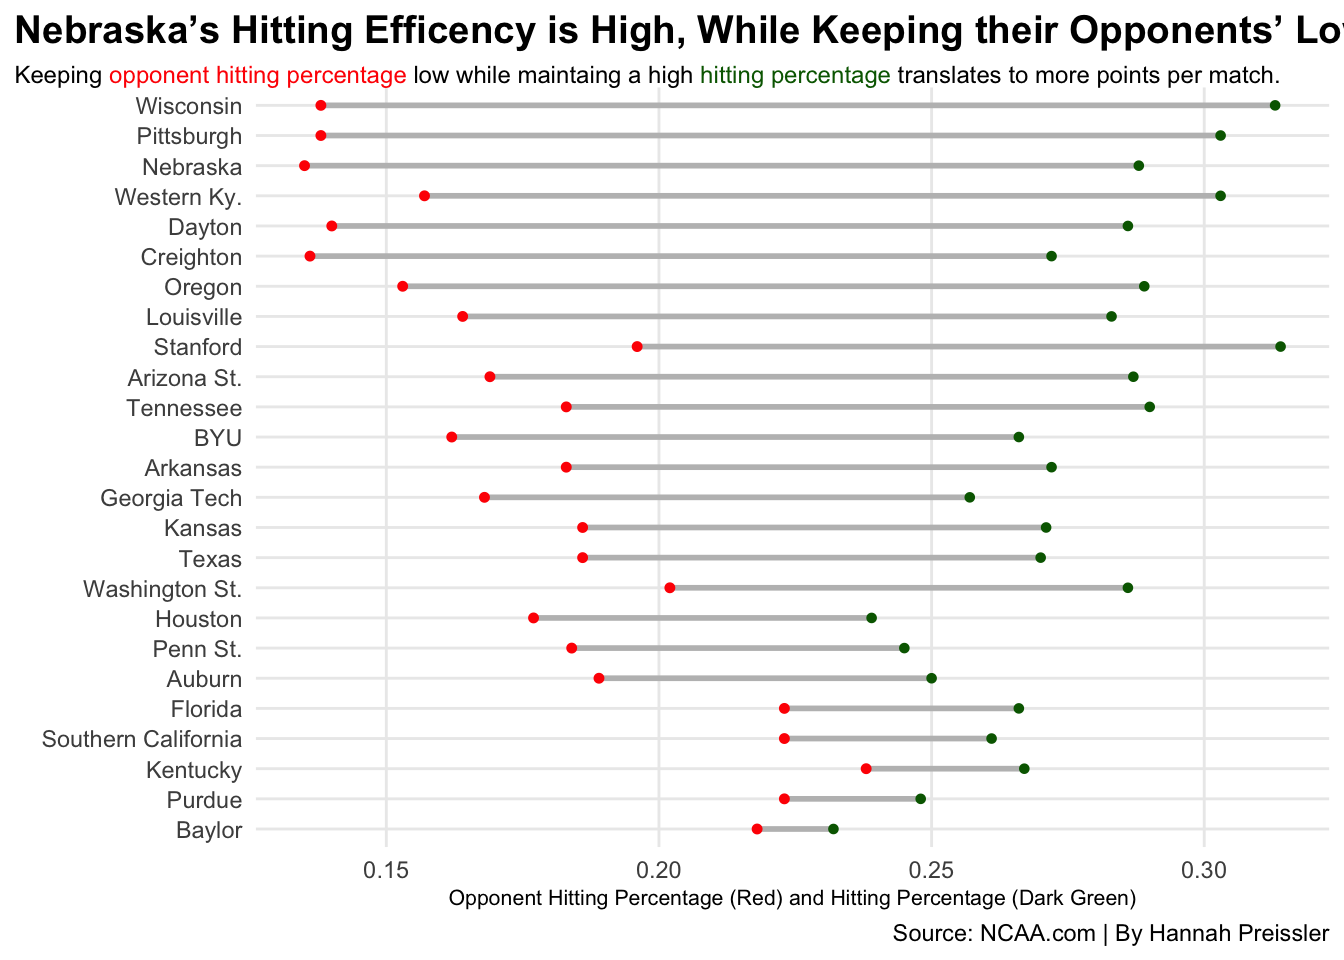
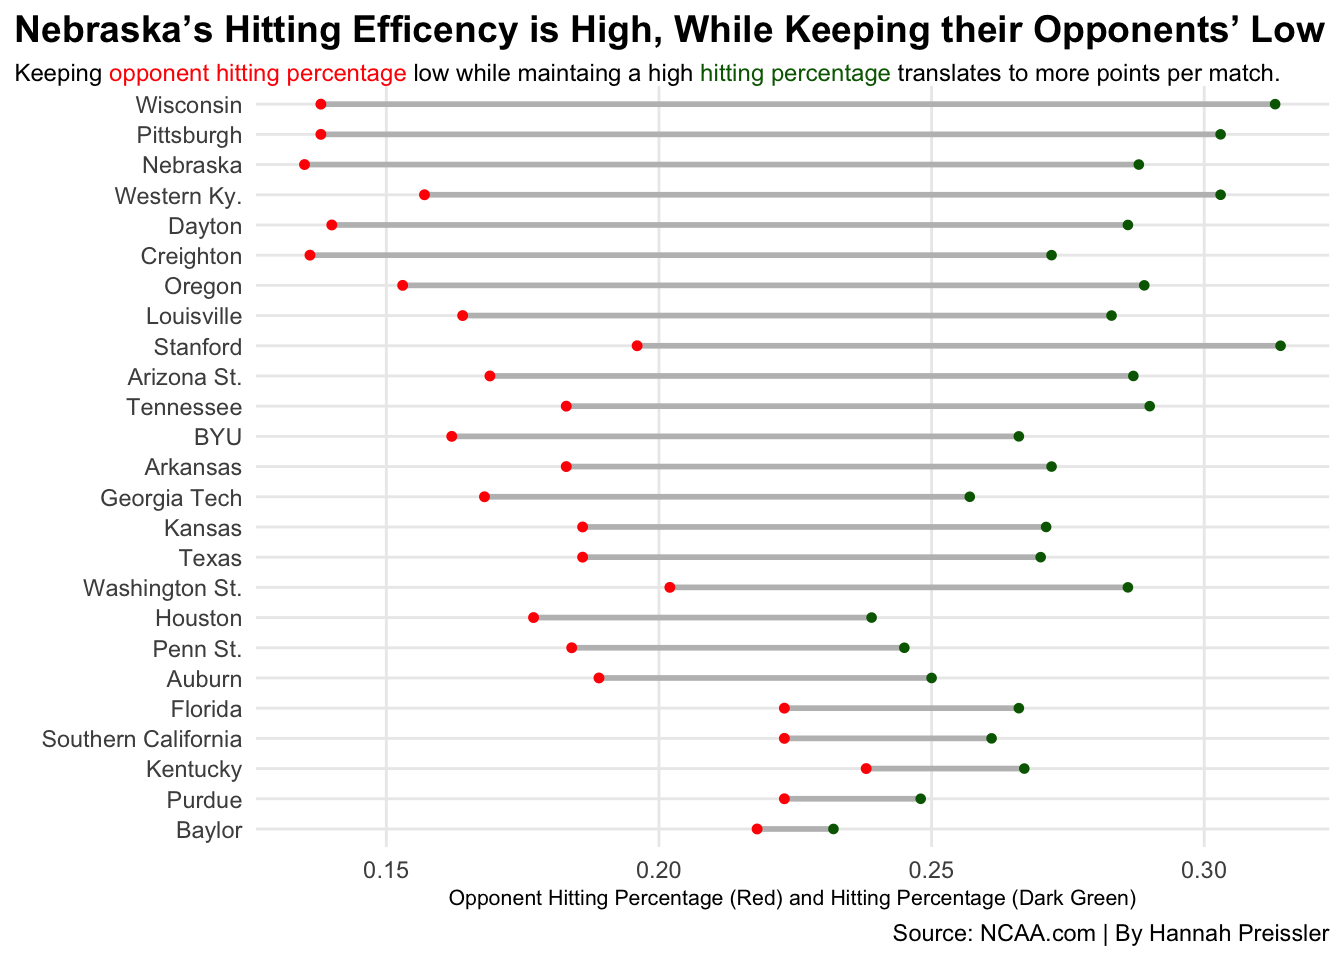
Updated project 1

diff --git a/posts/is-nebraska-volleyballs-success-attributed-to-offense-or-defense/index.html b/posts/is-nebraska-volleyballs-success-attributed-to-offense-or-defense/index.html
@@ -9,7 +9,7 @@
 <meta name="author" content="Hananh Preissler">
 <meta name="dcterms.date" content="2023-11-08">
 
-<title>Hannah Preissler’s Sports Data BLog - Is Nebraska Volleyball’s success attributed to its offensive or defensive power?</title>
+<title>Hannah Preissler’s Sports Data BLog - Is Nebraska Volleyball’s Success Attributed to its Offensive or Defensive Power?</title>
 <style>
 code{white-space: pre-wrap;}
 span.smallcaps{font-variant: small-caps;}
@@ -137,7 +137,7 @@ pre > code.sourceCode > span > a:first-child::before { text-decoration: underlin
 <header id="title-block-header" class="quarto-title-block default page-columns page-full">
   <div class="quarto-title-banner page-columns page-full">
     <div class="quarto-title column-body">
-      <h1 class="title">Is Nebraska Volleyball’s success attributed to its offensive or defensive power?</h1>
+      <h1 class="title">Is Nebraska Volleyball’s Success Attributed to its Offensive or Defensive Power?</h1>
                                 <div class="quarto-categories">
                 <div class="quarto-category">huskers</div>
                 <div class="quarto-category">volleyball</div>
@@ -273,7 +273,7 @@ pre > code.sourceCode > span > a:first-child::before { text-decoration: underlin
 <span id="cb1-90"><a href="#cb1-90" aria-hidden="true" tabindex="-1"></a>    <span class="at">caption=</span><span class="st">"Source: NCAA.com | By Hannah Preissler"</span>) <span class="sc">+</span></span>
 <span id="cb1-91"><a href="#cb1-91" aria-hidden="true" tabindex="-1"></a>  <span class="fu">theme_minimal</span>() <span class="sc">+</span></span>
 <span id="cb1-92"><a href="#cb1-92" aria-hidden="true" tabindex="-1"></a>  <span class="fu">theme</span>(</span>
-<span id="cb1-93"><a href="#cb1-93" aria-hidden="true" tabindex="-1"></a>    <span class="at">plot.title =</span> <span class="fu">element_text</span>(<span class="at">size =</span> <span class="fl">14.5</span>, <span class="at">face =</span> <span class="st">"bold"</span>),</span>
+<span id="cb1-93"><a href="#cb1-93" aria-hidden="true" tabindex="-1"></a>    <span class="at">plot.title =</span> <span class="fu">element_text</span>(<span class="at">size =</span> <span class="dv">14</span>, <span class="at">face =</span> <span class="st">"bold"</span>),</span>
 <span id="cb1-94"><a href="#cb1-94" aria-hidden="true" tabindex="-1"></a>    <span class="at">axis.title =</span> <span class="fu">element_text</span>(<span class="at">size =</span> <span class="dv">8</span>), </span>
 <span id="cb1-95"><a href="#cb1-95" aria-hidden="true" tabindex="-1"></a>    <span class="at">plot.subtitle =</span> <span class="fu">element_textbox_simple</span>(<span class="at">size=</span><span class="dv">9</span>), </span>
 <span id="cb1-96"><a href="#cb1-96" aria-hidden="true" tabindex="-1"></a>    <span class="at">panel.grid.minor =</span> <span class="fu">element_blank</span>(),</span>

diff --git a/index.html b/index.html
@@ -165,14 +165,14 @@ ul.task-list li input[type="checkbox"] {
 
 <div class="quarto-listing quarto-listing-container-default" id="listing-listing">
 <div class="list quarto-listing-default">
-<div class="quarto-post image-right" data-index="0" data-categories="huskers,volleyball,analysis" data-listing-date-sort="1699423200000" data-listing-file-modified-sort="1699668901347" data-listing-date-modified-sort="NaN" data-listing-reading-time-sort="5">
+<div class="quarto-post image-right" data-index="0" data-categories="huskers,volleyball,analysis" data-listing-date-sort="1699423200000" data-listing-file-modified-sort="1699720366871" data-listing-date-modified-sort="NaN" data-listing-reading-time-sort="5">
 <div class="thumbnail">
 <p><a href="./posts/is-nebraska-volleyballs-success-attributed-to-offense-or-defense/index.html"> <img src="./posts/is-nebraska-volleyballs-success-attributed-to-offense-or-defense/chart.png" class="thumbnail-image"> </a></p>
 </div>
 <div class="body">
 <a href="./posts/is-nebraska-volleyballs-success-attributed-to-offense-or-defense/index.html">
 <h3 class="no-anchor listing-title">
-Is Nebraska Volleyball’s success attributed to its offensive or defensive power?
+Is Nebraska Volleyball’s Success Attributed to its Offensive or Defensive Power?
 </h3>
 <div class="listing-subtitle">
 
